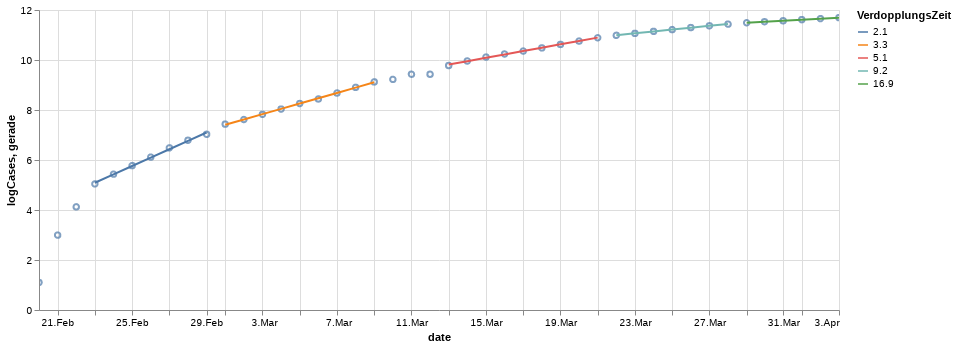
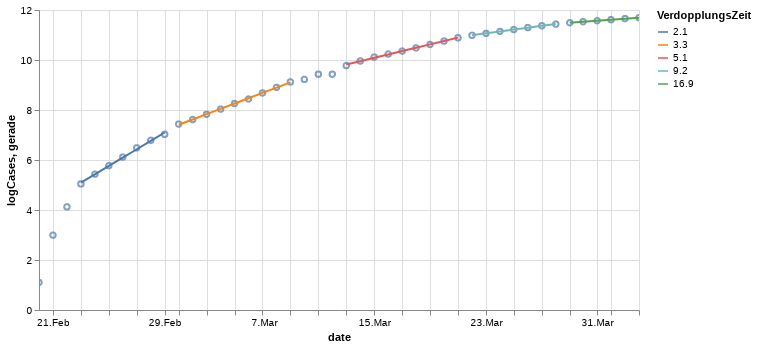
fixed images and header

diff --git a/_posts/2020-04-06-verdopplungsZeit.md b/_posts/2020-04-06-verdopplungsZeit.md
@@ -1,5 +1,3 @@
-# Title
-> summary
 
 
 # Bestimmung der Verdopplungszeit
@@ -12,7 +10,7 @@ Man kann die Verdopplungszeit berechnen, wenn man die Fallzahlen nicht direkt ge
 
 Im nächsten Abschnitt kommen die Ergebnisse für die Verdopplungszeiten, im Abschnitt danach dann der mathematische Zusammenhang, wie man sie bestimmt.
 
-Ich verwende die Daten der Johns Hopkins University, und zwar folgende Datei:
+Ich verwende die Daten der Johns Hopkins University, und zwar folgende Datei (heruntergeladen am 4.4.20, an dem Tag habe ich die Berechnungen durchgeführt):
 
 https://github.com/CSSEGISandData/COVID-19/blob/master/csse_covid_19_data/csse_covid_19_time_series/time_series_covid19_confirmed_global.csv
 
@@ -21,9 +19,6 @@ https://github.com/CSSEGISandData/COVID-19/blob/master/csse_covid_19_data/csse_c
 
 Hier zunächst die Fallzahlen für Deutschland:
 
-```python
-c1
-```
 
 
 
@@ -34,9 +29,7 @@ c1
 
 Man sieht, dass man nicht viel sieht. Jedenfalls kann man nicht erkennen, wie sich die Verdopplungszeit für die Ausbreitung in Deutschland entwickelt hat. Anders sieht die Sache aus, wenn man die logarithmierten Werte in einer Graphik darstellt:
 
-```python
-c2
-```
+
 
 
 
@@ -47,9 +40,7 @@ c2
 
 Man erkennt hier schon einiges. Das exponentielle Wachstum hat am 25.3.20 begonnen. Danach gibt es verschiedene Abschnitte, in denen der Verlauf wie eine Gerade aussieht. Und zwischen diesen Abschnitten gibt es jeweils einen Knick. Ich habe für jeden dieser Abschnitte eine Gerade berechnet (genau genommen hat das eine Funktion für mich gemacht). Im nächsten Graphen ist die jeweilige Gerade durch die Punkte gezeichnet, aus denen sie berechnet wurde. Aus der Steigung der Geraden erhält man die Verdopplungszeit, die in der Legende angegeben wird.
 
-```python
-lg
-```
+
 
 
 
@@ -66,9 +57,7 @@ Die deutlichen Knickpunkte sind schon auffällig. Wie sieht es also bei unseren 
 
 Hier die logarithmische Kurve für Frankreich:
 
-```python
-fr
-```
+
 
 
 
@@ -81,9 +70,6 @@ Das sieht eher abgerundet aus. Man erkennt keine linearen Abschnitte mit Knickpu
 
 Und jetzt Italien:
 
-```python
-it
-```
 
 
 
@@ -94,9 +80,7 @@ it
 
 Man kann lineare Abschnitte gerade so erkennen. Mit hineingerechneten Geraden sieht es so aus:
 
-```python
-lg
-```
+
 
 
 
@@ -106,10 +90,7 @@ lg
 
 
 Und als letztes Land Spanien:
-
-```python
-sp
-```
+`
 
 
 
@@ -120,9 +101,7 @@ sp
 
 Am oberen Ende lassen sich lineare Bereiche erkennen. Und nun wieder der Graph mit den berechneten Geraden.
 
-```python
-lg
-```
+
 
 
 
